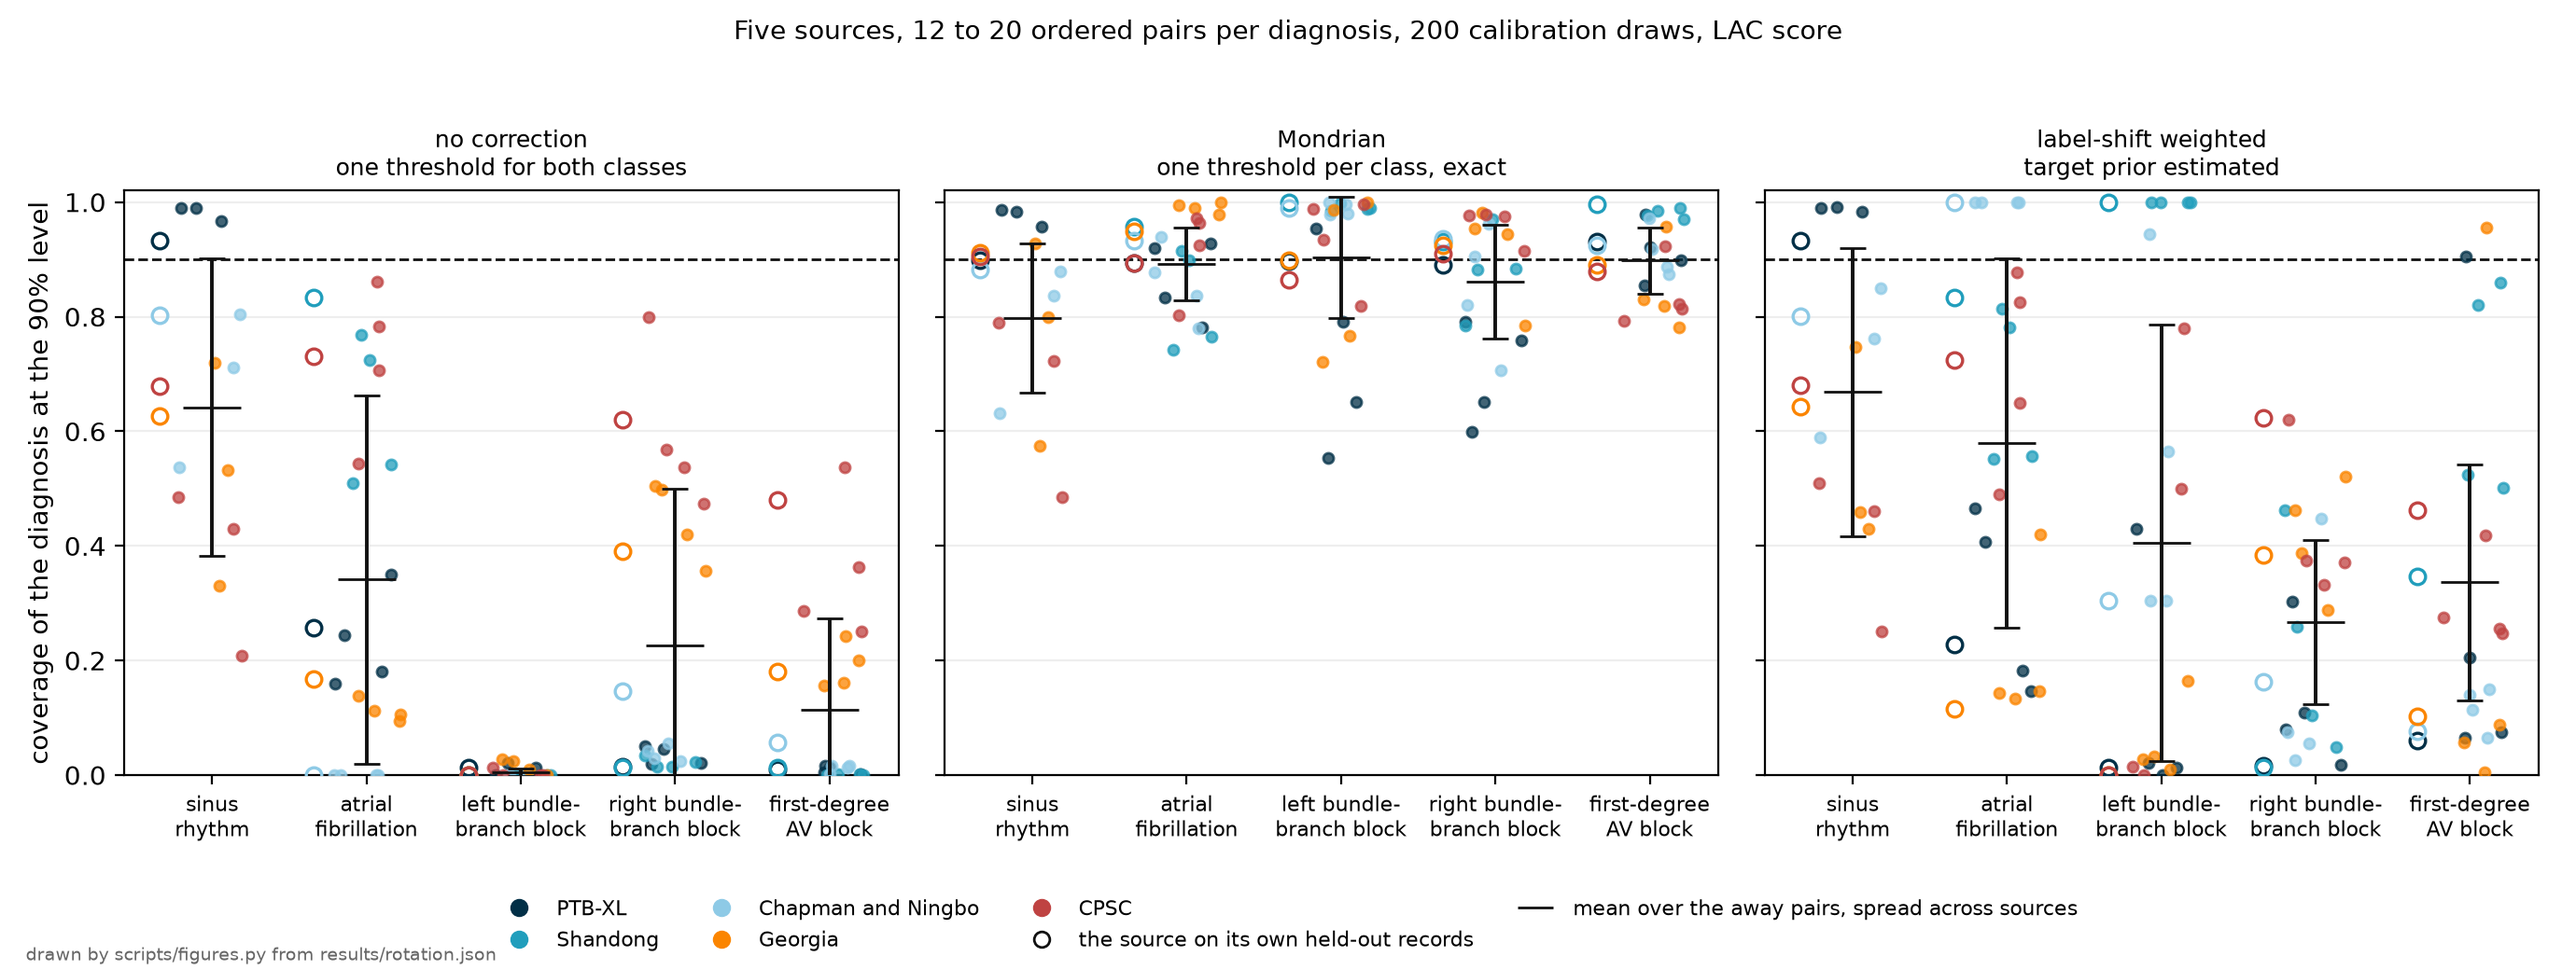
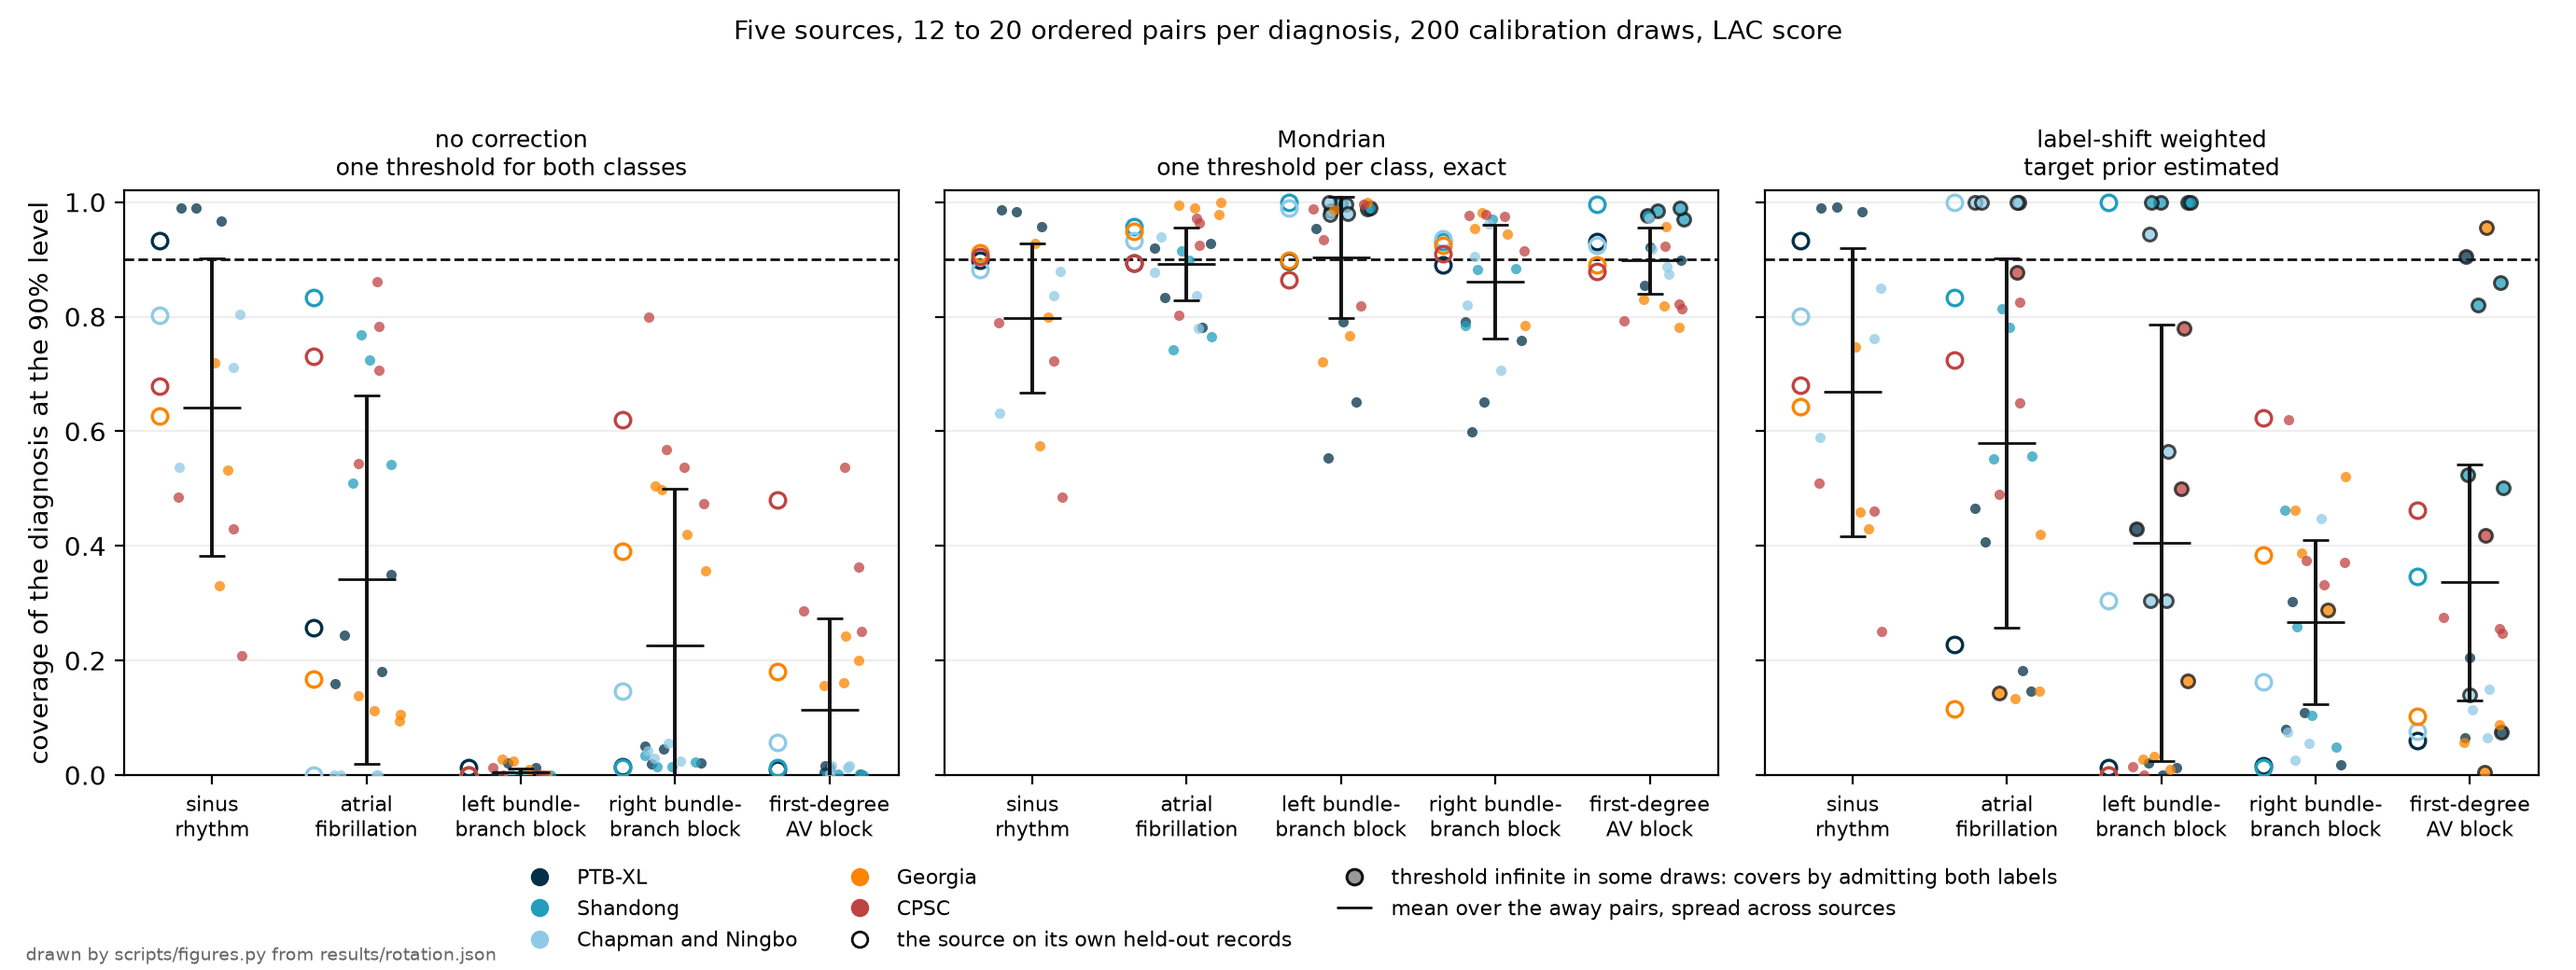
Ring the pairs that cover by abstaining, since the caption says the figure does
Section 3.6 told the reader that figure 4 marks the pairs whose per-class
threshold ran to infinity. It did not: every away point was drawn as the same
plain dot, and the three class-conditional pairs sat at the top of their columns
looking like the scheme working.

figure_7_rotation now reads n_draws_threshold_infinite off each entry and rings
those points in black, with a legend line saying what the ring means. The
caption counts them in both affected panels: three source-diagnosis pairs under
class-conditional calibration and fifteen under label-shift weighting, which is
why the height of the weighted panel is not a measure of that scheme answering.

The limitations bullet named only class-conditional calibration. Any scheme
that fits a threshold within a label can starve it, and the weighted scheme
does so on five times as many pairs, so the bullet now says that and says no
weighted mean is quoted anywhere.

A test asserts the counts against the grid and that the drawing code reads the
field, so the claim and the drawing cannot drift apart again.

Gates: ruff, ruff format, mypy on 63 files, 579 passed, prose_lint --strict at 0.

diff --git a/scripts/figures.py b/scripts/figures.py
@@ -700,13 +700,20 @@ def figure_7_rotation(table: dict[str, Any], out: Path, source: Path) -> Path:
             away = block["away"]
             for entry in away:
                 jitter = offsets[(label, entry["source"], entry["target"])]
+                # A pair whose per-class threshold ran to infinity in some draws
+                # covers by admitting both labels, so its point sits near 1.0 for
+                # a reason that is not the scheme working. Ringing it in black is
+                # what lets the text say the figure marks them.
+                abstains = entry.get("n_draws_threshold_infinite", 0) > 0
                 axis.plot(
                     column + jitter,
                     target + entry["bias"],
                     "o",
                     color=SOURCE_COLOUR[entry["source"]],
-                    markersize=4,
+                    markersize=5 if abstains else 4,
                     alpha=0.75,
+                    markeredgecolor="#111111" if abstains else "none",
+                    markeredgewidth=1.1 if abstains else 0.0,
                     zorder=3,
                 )
             for entry in block["home"]:
@@ -761,6 +768,19 @@ def figure_7_rotation(table: dict[str, Any], out: Path, source: Path) -> Path:
         plt.Line2D(
             [],
             [],
+            marker="o",
+            linestyle="",
+            color="#999999",
+            markeredgecolor="#111111",
+            markeredgewidth=1.1,
+            markersize=6,
+            label="threshold infinite in some draws: covers by admitting both labels",
+        )
+    )
+    handles.append(
+        plt.Line2D(
+            [],
+            [],
             marker="_",
             linestyle="",
             color="#111111",
@@ -768,7 +788,7 @@ def figure_7_rotation(table: dict[str, Any], out: Path, source: Path) -> Path:
             label="mean over the away pairs, spread across sources",
         )
     )
-    figure.legend(handles=handles, loc="lower center", ncol=4, frameon=False, fontsize=8)
+    figure.legend(handles=handles, loc="lower center", ncol=3, frameon=False, fontsize=8)
     # Sinus rhythm is refused on Shandong, so it carries twelve ordered pairs
     # where the other four carry twenty. Stating one number would be wrong for
     # four columns of the figure.
